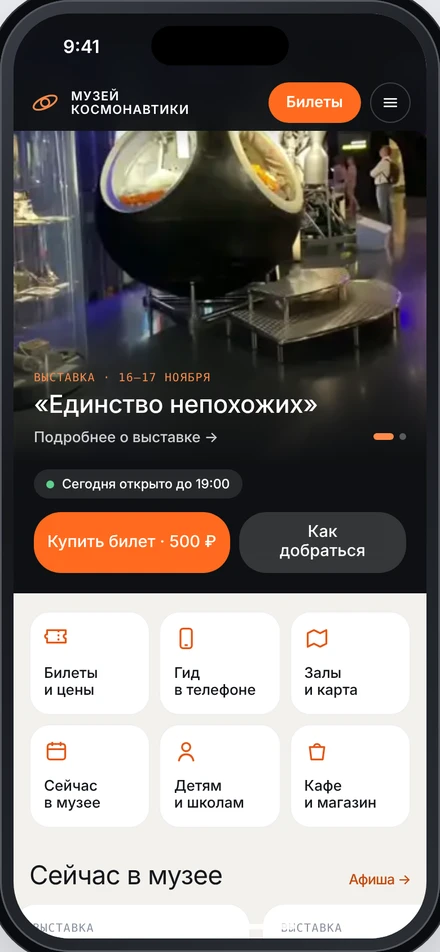
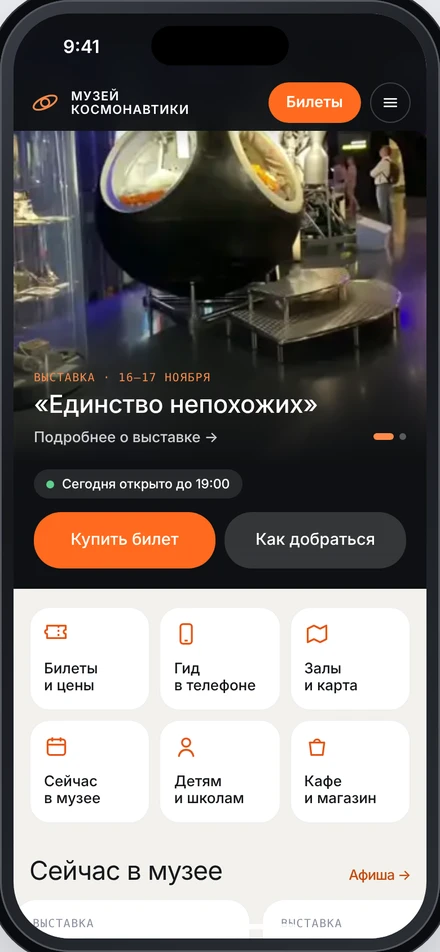
site: кнопки «Купить билет» и «Как добраться» в одну строку, без цены
Claude-Session: https://claude.ai/code/session_01YJBZo4ctwu5nXZDRpFLjgU

diff --git a/kosmo-museum/site/index.html b/kosmo-museum/site/index.html
@@ -1,7 +1,7 @@
 <!doctype html><html><head><meta charset=utf8><meta name=viewport content="width=device-width,initial-scale=1"><style>:root{color-scheme:light}body{margin:0;padding:0;font:14px -apple-system,BlinkMacSystemFont,sans-serif;background:#fff;color:#000}img{max-width:100%}[hidden]:not([hidden=until-found i]){display:none!important}
 /* v2: анонс выставки, равные кнопки, без дублей «Как добраться» */
 .snbtns{display:grid!important;grid-template-columns:1fr 1fr;gap:8px}
-.snbtns button{height:54px!important;padding:0 12px!important;line-height:1.15!important;width:100%}
+.snbtns button{height:50px!important;padding:0 10px!important;line-height:1!important;width:100%;white-space:nowrap}
 .snsl.ann .annp{display:inline-block;margin-top:8px;font:500 13px var(--f);color:rgba(255,255,255,.8)}
 </style></head><body>
 <!doctype html><html lang="ru"><head><meta charset="utf-8"><meta name="viewport" content="width=device-width,initial-scale=1"><title>Музей космонавтики: сайт</title>
@@ -312,7 +312,7 @@ button.snex{border:0;background:none;padding:0;text-align:left;color:inherit;cur
     <div class="snsl ann"><img src="g/mir_big.webp" alt="Станция «Мир»"><div class="cap"><small>Новое · приложение-гид</small><b>Музей в кармане</b><span class="annp">Карта, экскурсия и истории экспонатов →</span></div></div>
     <div class="sndots"><i class="on"></i><i></i></div>
   </section>
-  <section class="sninfo"><h1 class="vh">Музей космонавтики</h1><span class="snpill" id="snOpen"><i></i>Сегодня открыто</span><div class="snbtns"><button class="p" data-buy>Купить билет · 500 ₽</button><button class="s" id="snRoute">Как<br>добраться</button></div></section>
+  <section class="sninfo"><h1 class="vh">Музей космонавтики</h1><span class="snpill" id="snOpen"><i></i>Сегодня открыто</span><div class="snbtns"><button class="p" data-buy>Купить билет</button><button class="s" id="snRoute">Как добраться</button></div></section>
   <div class="sntiles">
     <button data-buy><svg viewBox="0 0 24 24" fill="none" stroke="currentColor" stroke-width="1.8" stroke-linejoin="round"><path d="M3 8a2 2 0 0 0 0 4v4h18v-4a2 2 0 0 1 0-4V4H3z"/><path d="M14 4v12" stroke-dasharray="2 2"/></svg>Билеты и цены</button>
     <button data-go="app"><svg viewBox="0 0 24 24" fill="none" stroke="currentColor" stroke-width="1.8" stroke-linejoin="round"><rect x="6.5" y="2.5" width="11" height="19" rx="2.5"/><path d="M10.5 18.5h3"/></svg>Гид<br>в&nbsp;телефоне</button>
